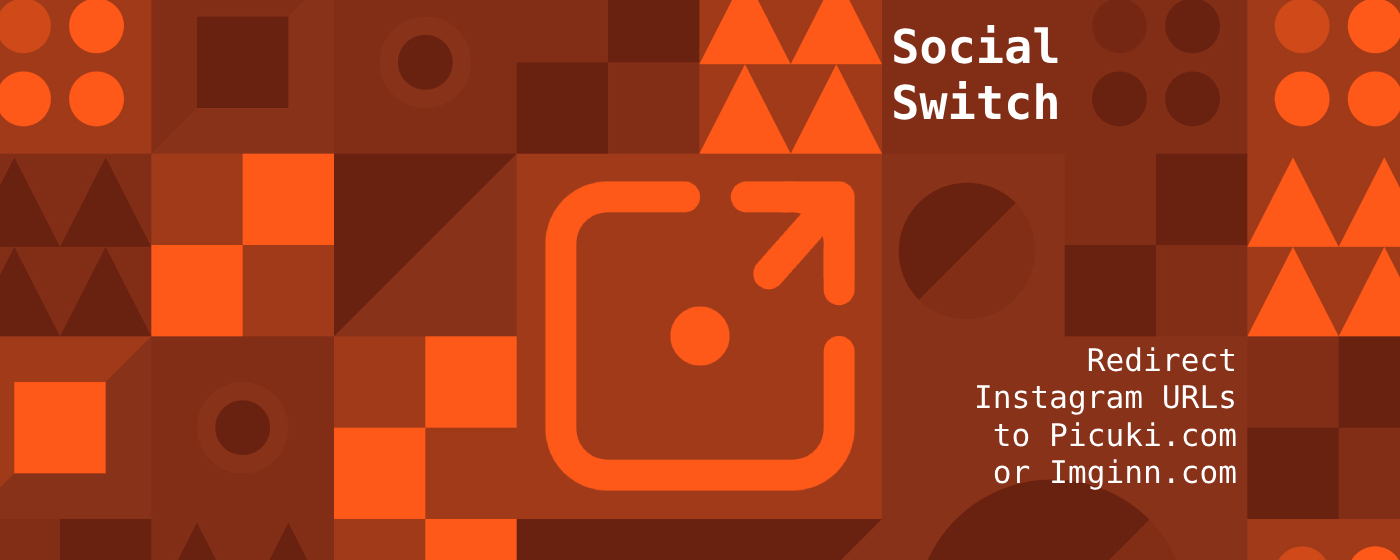
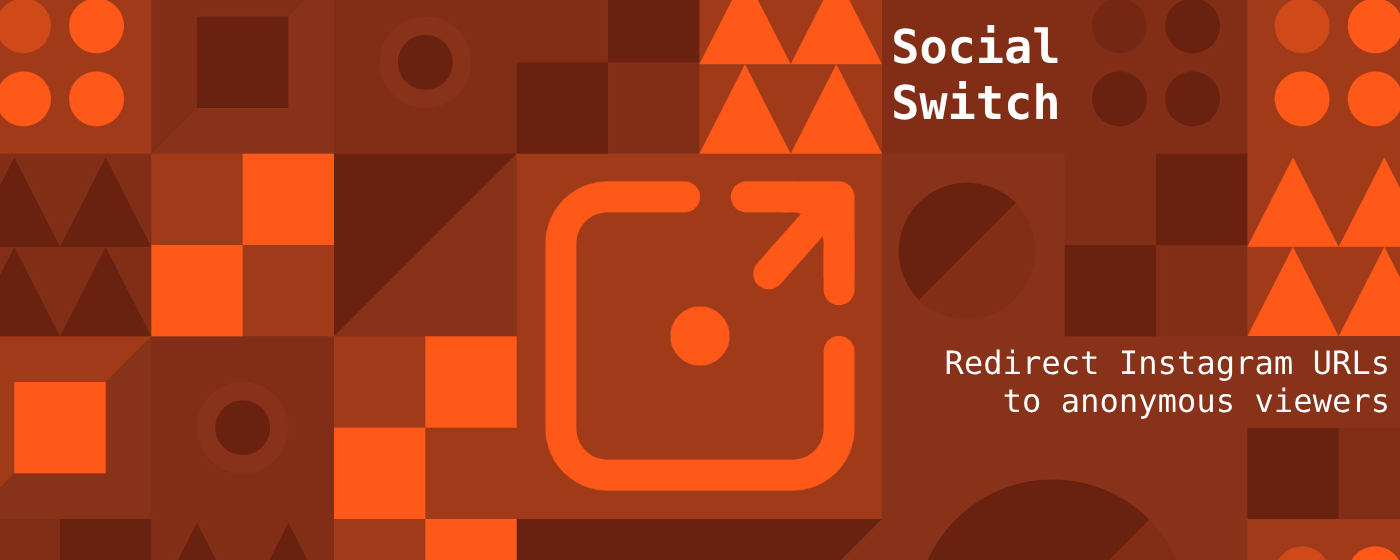
update css transition and description

Changed region(s): [[0.6757, 0.5768, 1.0, 0.8804]]

diff --git a/popup.css b/popup.css
@@ -34,7 +34,6 @@ body {
   bottom: 0;
   background-color: #ff5919;
   border-radius: 30px;
-  transition: .1s;
 }
 
 .slider:before {
@@ -46,7 +45,6 @@ body {
   top: 2px;
   background-color: white;
   border-radius: 50%;
-  transition: .1s;
 }
 
 input:checked+.slider {

diff --git a/README.md b/README.md
@@ -6,7 +6,9 @@
     <img src="icons/icon128.png">
 </p>
 
-Redirect Instagram URLs to Picuki.com or Imginn.con, Instagram viewers.
+Redirect Instagram URLs to anonymous viewers.
+
+Access any profile, posts, tagged posts, stories profile or tags on Instagram and the extension will redirect automatically to Picuki.com or Imginn.com.
 
 ## Installation
 
@@ -14,16 +16,13 @@ Redirect Instagram URLs to Picuki.com or Imginn.con, Instagram viewers.
 
 ## Usage
 
-Access any profile, posts, tagged posts, stories profile or tags on Instagram and the extension will redirect automatically to Picuki.com or Imginn.com.
-
 Select a viewer option and enable or disable redirection through the popup.
 
 <p align="center">
-    <img src="assets\popup.jpg">
-    <img src="assets\popup-2.jpg">
+    <img src="assets\popup.png">
 </p>
 
-For post URLs (`instagram.com/p/<short_code>`) and stories profiles (`instagram.com/stories/<handle>`), regardless of the redirection option, the extension will redirect to Imginn.com. This viewer uses the original post short code, and it has the option to view only stories via URL. However, for tag URLs (`instagram.com/explore/tags/<tag_name>`), irrespective of the redirection option, the extension will redirect to Picuki.com, as only this viewer supports tag search.
+For post URLs (`instagram.com/p/<short_code>`) and stories profile URLs (`instagram.com/stories/<handle>`), regardless of the redirection option, the extension will redirect to Imginn.com. This viewer uses the original post short code, and it has the option to view only stories via URL. However, for tag URLs (`instagram.com/explore/tags/<tag_name>`), irrespective of the redirection option, the extension will redirect to Picuki.com, as only this viewer supports tag search.
 
 ### Supported URLs
 
@@ -62,8 +61,8 @@ $ `cd socialswitch`
 - [x] Tags URL
 - [x] Post URLs
 - [ ] TikTok options
-  - [ ] user
-  - [ ] video
+  - [ ] User
+  - [ ] Video
 - [ ] Firefox Add-ons
 
 ## Credits
@@ -72,4 +71,4 @@ $ `cd socialswitch`
 - [MagicPattern](https://unsplash.com/@magicpattern), background image of the [promotional assets](assets)
 
 > [!NOTE]
-> This extension is not affiliated with Picuki, Imginn or Instagram.
+> This extension is not affiliated with Instagram, Picuki or Imginn.
